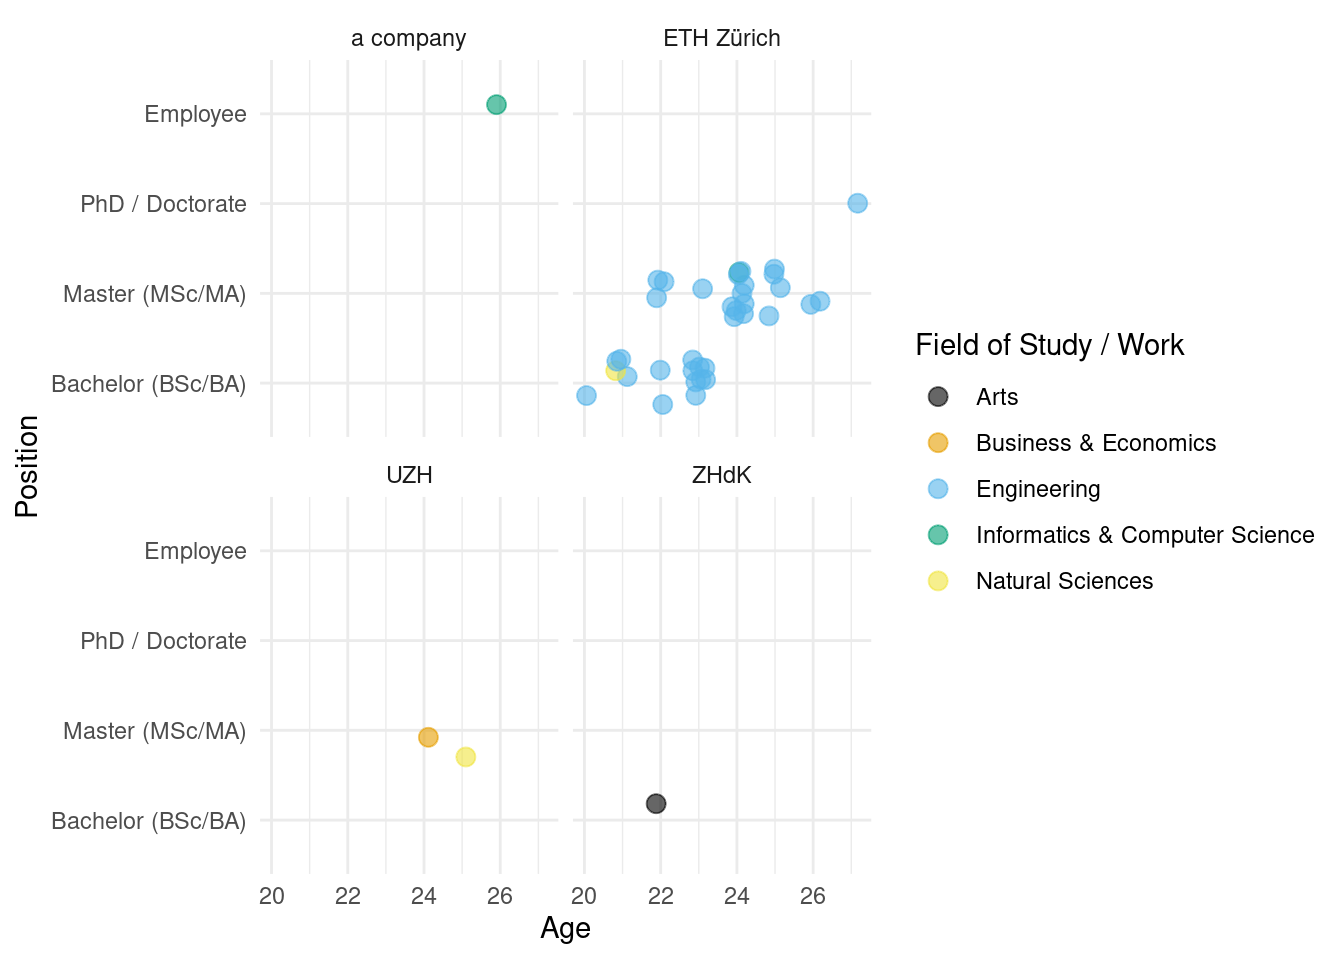
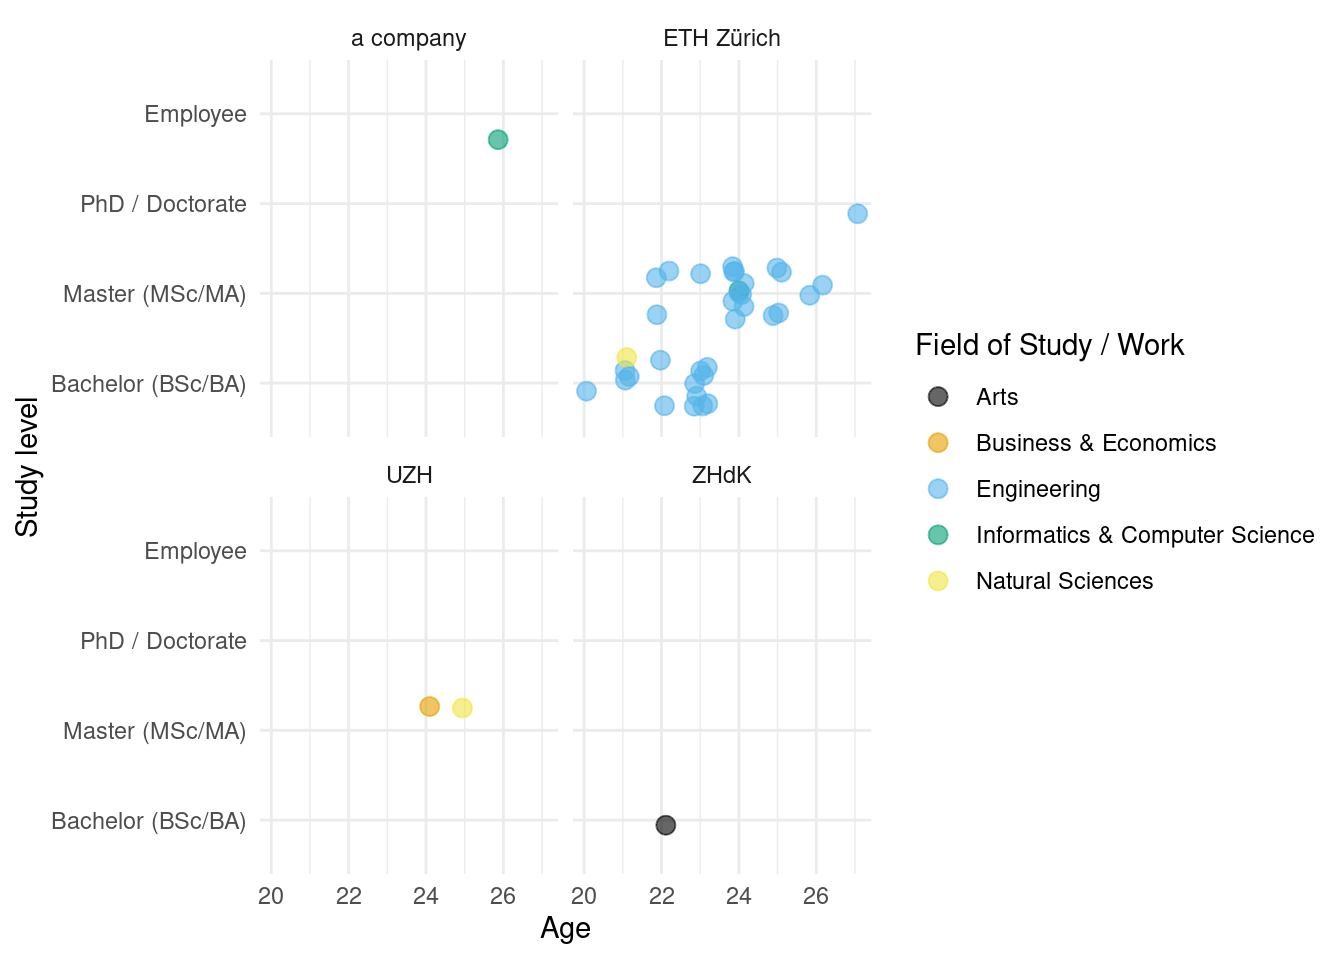
Added a few subchapters

diff --git a/docs/index.html b/docs/index.html
@@ -85,7 +85,12 @@ pre > code.sourceCode > span > a:first-child::before { text-decoration: underlin
   <ul>
   <li><a href="#introduction" id="toc-introduction" class="nav-link active" data-scroll-target="#introduction">Introduction</a></li>
   <li><a href="#methods" id="toc-methods" class="nav-link" data-scroll-target="#methods">Methods</a></li>
-  <li><a href="#results" id="toc-results" class="nav-link" data-scroll-target="#results">Results</a></li>
+  <li><a href="#results" id="toc-results" class="nav-link" data-scroll-target="#results">Results</a>
+  <ul class="collapse">
+  <li><a href="#respondents" id="toc-respondents" class="nav-link" data-scroll-target="#respondents">Respondents</a></li>
+  <li><a href="#single-use-cup-habits" id="toc-single-use-cup-habits" class="nav-link" data-scroll-target="#single-use-cup-habits">Single-use cup habits</a></li>
+  <li><a href="#opinions-on-a-ban-on-single-use-cups" id="toc-opinions-on-a-ban-on-single-use-cups" class="nav-link" data-scroll-target="#opinions-on-a-ban-on-single-use-cups">Opinions on a ban on single-use cups</a></li>
+  </ul></li>
   <li><a href="#conclusions" id="toc-conclusions" class="nav-link" data-scroll-target="#conclusions">Conclusions</a></li>
   </ul>
 </nav>
@@ -140,30 +145,15 @@ pre > code.sourceCode > span > a:first-child::before { text-decoration: underlin
 
 
 <div class="cell">
-<div class="cell-output cell-output-stderr">
-<pre><code>── Attaching core tidyverse packages ──────────────────────── tidyverse 2.0.0 ──
-✔ dplyr     1.1.4     ✔ readr     2.1.5
-✔ forcats   1.0.0     ✔ stringr   1.5.1
-✔ ggplot2   3.4.4     ✔ tibble    3.2.1
-✔ lubridate 1.9.3     ✔ tidyr     1.3.1
-✔ purrr     1.0.2     
-── Conflicts ────────────────────────────────────────── tidyverse_conflicts() ──
-✖ dplyr::filter() masks stats::filter()
-✖ dplyr::lag()    masks stats::lag()
-ℹ Use the conflicted package (&lt;http://conflicted.r-lib.org/&gt;) to force all conflicts to become errors
-
-Attaching package: 'scales'
-
-
-The following object is masked from 'package:purrr':
-
-    discard
-
-
-The following object is masked from 'package:readr':
-
-    col_factor</code></pre>
-</div>
+<details class="code-fold">
+<summary>Code</summary>
+<div class="sourceCode cell-code" id="cb1"><pre class="sourceCode r code-with-copy"><code class="sourceCode r"><span id="cb1-1"><a href="#cb1-1" aria-hidden="true" tabindex="-1"></a><span class="fu">library</span>(tidyverse)</span>
+<span id="cb1-2"><a href="#cb1-2" aria-hidden="true" tabindex="-1"></a><span class="fu">library</span>(scales)</span>
+<span id="cb1-3"><a href="#cb1-3" aria-hidden="true" tabindex="-1"></a><span class="fu">library</span>(ggthemes)</span>
+<span id="cb1-4"><a href="#cb1-4" aria-hidden="true" tabindex="-1"></a><span class="fu">library</span>(ggExtra)</span>
+<span id="cb1-5"><a href="#cb1-5" aria-hidden="true" tabindex="-1"></a></span>
+<span id="cb1-6"><a href="#cb1-6" aria-hidden="true" tabindex="-1"></a>df <span class="ot">&lt;-</span> <span class="fu">read_rds</span>(here<span class="sc">::</span><span class="fu">here</span>(<span class="st">"data/processed/processed_data.rds"</span>))</span></code><button title="Copy to Clipboard" class="code-copy-button"><i class="bi"></i></button></pre></div>
+</details>
 </div>
 <section id="introduction" class="level1">
 <h1>Introduction</h1>
@@ -171,31 +161,40 @@ The following object is masked from 'package:readr':
 </section>
 <section id="methods" class="level1">
 <h1>Methods</h1>
-<p>Methods section describes in 3 to 5 sentences how the data was obtained.</p>
+<p>The data was obtained using a Google Forms survey. Over the span of nine days from 2024-05-21 to 2024-05-29, students were asked on campus or online to fill out the questionnaire. The answers were automatically gathered in Google Sheets and from there converted to csv and rds using /R/01-data_download.R .</p>
 </section>
 <section id="results" class="level1">
 <h1>Results</h1>
 <p>Figures and tables in Results section are interpreted with 2 to 3 sentences each.</p>
+<section id="respondents" class="level2">
+<h2 class="anchored" data-anchor-id="respondents">Respondents</h2>
+<p>In the first section, respondents were asked to state their age, study field and level, and their institution. In <a href="#fig-respondents-institution" class="quarto-xref">Figure&nbsp;1</a> (a), we can see that most answers came from people within Engineering at ETH, and that all respondents were in their 20s as seen in <a href="#fig-respondents-institution" class="quarto-xref">Figure&nbsp;1</a> (b).</p>
+<details class="code-fold">
+<summary>Code</summary>
 <div class="sourceCode cell-code" id="cb2"><pre class="sourceCode r code-with-copy"><code class="sourceCode r"><span id="cb2-1"><a href="#cb2-1" aria-hidden="true" tabindex="-1"></a><span class="fu">ggplot</span>(<span class="at">data =</span> df, </span>
 <span id="cb2-2"><a href="#cb2-2" aria-hidden="true" tabindex="-1"></a>       <span class="at">mapping =</span> <span class="fu">aes</span>(<span class="at">x =</span> <span class="fu">reorder</span>(institution, institution, length),</span>
 <span id="cb2-3"><a href="#cb2-3" aria-hidden="true" tabindex="-1"></a>                     <span class="at">fill =</span> field)) <span class="sc">+</span></span>
 <span id="cb2-4"><a href="#cb2-4" aria-hidden="true" tabindex="-1"></a>  <span class="fu">geom_bar</span>() <span class="sc">+</span></span>
 <span id="cb2-5"><a href="#cb2-5" aria-hidden="true" tabindex="-1"></a>  <span class="fu">coord_flip</span>() <span class="sc">+</span></span>
-<span id="cb2-6"><a href="#cb2-6" aria-hidden="true" tabindex="-1"></a>  <span class="fu">labs</span>(<span class="at">x =</span> <span class="st">"Institution"</span>,</span>
-<span id="cb2-7"><a href="#cb2-7" aria-hidden="true" tabindex="-1"></a>       <span class="at">y =</span> <span class="st">"Number of responses"</span>) <span class="sc">+</span></span>
-<span id="cb2-8"><a href="#cb2-8" aria-hidden="true" tabindex="-1"></a>  <span class="fu">theme_minimal</span>() <span class="sc">+</span></span>
-<span id="cb2-9"><a href="#cb2-9" aria-hidden="true" tabindex="-1"></a>  <span class="fu">scale_fill_colorblind</span>() <span class="sc">+</span></span>
-<span id="cb2-10"><a href="#cb2-10" aria-hidden="true" tabindex="-1"></a>  <span class="fu">theme</span>(<span class="at">legend.position =</span> <span class="st">"none"</span>)</span>
-<span id="cb2-11"><a href="#cb2-11" aria-hidden="true" tabindex="-1"></a></span>
-<span id="cb2-12"><a href="#cb2-12" aria-hidden="true" tabindex="-1"></a><span class="fu">ggplot</span>(<span class="at">data =</span> df,</span>
-<span id="cb2-13"><a href="#cb2-13" aria-hidden="true" tabindex="-1"></a>       <span class="at">mapping =</span> <span class="fu">aes</span>(<span class="at">x =</span> age,</span>
-<span id="cb2-14"><a href="#cb2-14" aria-hidden="true" tabindex="-1"></a>                     <span class="at">fill =</span> field)) <span class="sc">+</span></span>
-<span id="cb2-15"><a href="#cb2-15" aria-hidden="true" tabindex="-1"></a>  <span class="fu">geom_bar</span>() <span class="sc">+</span></span>
-<span id="cb2-16"><a href="#cb2-16" aria-hidden="true" tabindex="-1"></a>  <span class="fu">labs</span>(<span class="at">x =</span> <span class="st">"Age"</span>,</span>
-<span id="cb2-17"><a href="#cb2-17" aria-hidden="true" tabindex="-1"></a>       <span class="at">y =</span> <span class="st">"Number of responses"</span>,</span>
-<span id="cb2-18"><a href="#cb2-18" aria-hidden="true" tabindex="-1"></a>       <span class="at">fill =</span> <span class="st">"Field of Study / Work"</span>) <span class="sc">+</span></span>
-<span id="cb2-19"><a href="#cb2-19" aria-hidden="true" tabindex="-1"></a>  <span class="fu">theme_minimal</span>() <span class="sc">+</span></span>
-<span id="cb2-20"><a href="#cb2-20" aria-hidden="true" tabindex="-1"></a>  <span class="fu">scale_fill_colorblind</span>()</span></code><button title="Copy to Clipboard" class="code-copy-button"><i class="bi"></i></button></pre></div>
+<span id="cb2-6"><a href="#cb2-6" aria-hidden="true" tabindex="-1"></a>  <span class="fu">scale_y_continuous</span>(<span class="at">breaks =</span> <span class="fu">seq</span>(<span class="at">from =</span> <span class="dv">0</span>, <span class="at">to =</span> <span class="dv">100</span>, <span class="at">by =</span> <span class="dv">2</span>)) <span class="sc">+</span></span>
+<span id="cb2-7"><a href="#cb2-7" aria-hidden="true" tabindex="-1"></a>  <span class="fu">labs</span>(<span class="at">x =</span> <span class="st">"Institution"</span>,</span>
+<span id="cb2-8"><a href="#cb2-8" aria-hidden="true" tabindex="-1"></a>       <span class="at">y =</span> <span class="st">"Number of responses"</span>) <span class="sc">+</span></span>
+<span id="cb2-9"><a href="#cb2-9" aria-hidden="true" tabindex="-1"></a>  <span class="fu">theme_minimal</span>() <span class="sc">+</span></span>
+<span id="cb2-10"><a href="#cb2-10" aria-hidden="true" tabindex="-1"></a>  <span class="fu">scale_fill_colorblind</span>() <span class="sc">+</span></span>
+<span id="cb2-11"><a href="#cb2-11" aria-hidden="true" tabindex="-1"></a>  <span class="fu">theme</span>(<span class="at">legend.position =</span> <span class="st">"none"</span>)</span>
+<span id="cb2-12"><a href="#cb2-12" aria-hidden="true" tabindex="-1"></a></span>
+<span id="cb2-13"><a href="#cb2-13" aria-hidden="true" tabindex="-1"></a><span class="fu">ggplot</span>(<span class="at">data =</span> df) <span class="sc">+</span></span>
+<span id="cb2-14"><a href="#cb2-14" aria-hidden="true" tabindex="-1"></a>  <span class="fu">geom_bar</span>(<span class="at">mapping =</span> <span class="fu">aes</span>(<span class="at">x =</span> age,</span>
+<span id="cb2-15"><a href="#cb2-15" aria-hidden="true" tabindex="-1"></a>                     <span class="at">fill =</span> field)) <span class="sc">+</span></span>
+<span id="cb2-16"><a href="#cb2-16" aria-hidden="true" tabindex="-1"></a>  <span class="fu">scale_x_continuous</span>(<span class="at">breaks =</span> <span class="fu">seq</span>(<span class="at">from =</span> <span class="dv">0</span>, <span class="at">to =</span> <span class="dv">100</span>, <span class="at">by =</span> <span class="dv">1</span>)) <span class="sc">+</span></span>
+<span id="cb2-17"><a href="#cb2-17" aria-hidden="true" tabindex="-1"></a>  <span class="fu">scale_y_continuous</span>(<span class="at">breaks =</span> <span class="fu">seq</span>(<span class="at">from =</span> <span class="dv">0</span>, <span class="at">to =</span> <span class="dv">100</span>, <span class="at">by =</span> <span class="dv">1</span>)) <span class="sc">+</span></span>
+<span id="cb2-18"><a href="#cb2-18" aria-hidden="true" tabindex="-1"></a>  <span class="fu">labs</span>(<span class="at">x =</span> <span class="st">"Age"</span>,</span>
+<span id="cb2-19"><a href="#cb2-19" aria-hidden="true" tabindex="-1"></a>       <span class="at">y =</span> <span class="st">"Number of responses"</span>,</span>
+<span id="cb2-20"><a href="#cb2-20" aria-hidden="true" tabindex="-1"></a>       <span class="at">fill =</span> <span class="st">"Field of Study / Work"</span>) <span class="sc">+</span></span>
+<span id="cb2-21"><a href="#cb2-21" aria-hidden="true" tabindex="-1"></a>  <span class="fu">theme_minimal</span>() <span class="sc">+</span></span>
+<span id="cb2-22"><a href="#cb2-22" aria-hidden="true" tabindex="-1"></a>  <span class="fu">scale_fill_colorblind</span>() <span class="sc">+</span></span>
+<span id="cb2-23"><a href="#cb2-23" aria-hidden="true" tabindex="-1"></a>  <span class="fu">geom_boxplot</span>(<span class="at">mapping =</span> <span class="fu">aes</span>(<span class="at">x =</span> age), <span class="at">alpha =</span> <span class="fl">0.2</span>, <span class="at">position =</span> <span class="fu">position_nudge</span>(<span class="at">y=</span><span class="fl">3.5</span>), <span class="at">width =</span> <span class="dv">2</span>)</span></code><button title="Copy to Clipboard" class="code-copy-button"><i class="bi"></i></button></pre></div>
+</details>
 <div id="fig-respondents-institution" class="quarto-layout-panel">
 <figure class="quarto-float quarto-float-fig figure">
 <div aria-describedby="fig-respondents-institution-caption-0ceaefa1-69ba-4598-a22c-09a6ac19f8ca">
@@ -231,7 +230,10 @@ Figure&nbsp;1: Distribution of responses
 </figcaption>
 </figure>
 </div>
+<p>In <a href="#fig-respondents-detail" class="quarto-xref">Figure&nbsp;2</a>, the study level is added as well, showing us that most respondents are indeed studying Engineering at Bachelor’s or Master’s level at ETH Zürich, with very few outliers.</p>
 <div class="cell">
+<details class="code-fold">
+<summary>Code</summary>
 <div class="sourceCode cell-code" id="cb3"><pre class="sourceCode r code-with-copy"><code class="sourceCode r"><span id="cb3-1"><a href="#cb3-1" aria-hidden="true" tabindex="-1"></a>df <span class="ot">&lt;-</span> df <span class="sc">|&gt;</span> </span>
 <span id="cb3-2"><a href="#cb3-2" aria-hidden="true" tabindex="-1"></a>  <span class="fu">mutate</span>(<span class="at">position =</span> <span class="fu">factor</span>(position, <span class="at">levels =</span> <span class="fu">c</span>(<span class="st">"Bachelor (BSc/BA)"</span>, <span class="st">"Master (MSc/MA)"</span>, <span class="st">"PhD / Doctorate"</span>, <span class="st">"Employee"</span>)))</span>
 <span id="cb3-3"><a href="#cb3-3" aria-hidden="true" tabindex="-1"></a></span>
@@ -241,12 +243,13 @@ Figure&nbsp;1: Distribution of responses
 <span id="cb3-7"><a href="#cb3-7" aria-hidden="true" tabindex="-1"></a>                     <span class="at">color =</span> field)) <span class="sc">+</span></span>
 <span id="cb3-8"><a href="#cb3-8" aria-hidden="true" tabindex="-1"></a>  <span class="fu">geom_jitter</span>(<span class="at">size =</span> <span class="dv">3</span>, <span class="at">alpha =</span> <span class="fl">0.6</span>, <span class="at">width =</span> <span class="fl">0.3</span>, <span class="at">height =</span> <span class="fl">0.2</span>) <span class="sc">+</span></span>
 <span id="cb3-9"><a href="#cb3-9" aria-hidden="true" tabindex="-1"></a>  <span class="fu">coord_flip</span>() <span class="sc">+</span></span>
-<span id="cb3-10"><a href="#cb3-10" aria-hidden="true" tabindex="-1"></a>  <span class="fu">labs</span>(<span class="at">x =</span> <span class="st">"Position"</span>,</span>
+<span id="cb3-10"><a href="#cb3-10" aria-hidden="true" tabindex="-1"></a>  <span class="fu">labs</span>(<span class="at">x =</span> <span class="st">"Study level"</span>,</span>
 <span id="cb3-11"><a href="#cb3-11" aria-hidden="true" tabindex="-1"></a>       <span class="at">y =</span> <span class="st">"Age"</span>,</span>
 <span id="cb3-12"><a href="#cb3-12" aria-hidden="true" tabindex="-1"></a>       <span class="at">color =</span> <span class="st">"Field of Study / Work"</span>) <span class="sc">+</span></span>
 <span id="cb3-13"><a href="#cb3-13" aria-hidden="true" tabindex="-1"></a>  <span class="fu">facet_wrap</span>(<span class="sc">~</span>institution) <span class="sc">+</span></span>
 <span id="cb3-14"><a href="#cb3-14" aria-hidden="true" tabindex="-1"></a>  <span class="fu">theme_minimal</span>() <span class="sc">+</span></span>
 <span id="cb3-15"><a href="#cb3-15" aria-hidden="true" tabindex="-1"></a>  <span class="fu">scale_color_colorblind</span>()</span></code><button title="Copy to Clipboard" class="code-copy-button"><i class="bi"></i></button></pre></div>
+</details>
 <div class="cell-output-display">
 <div id="fig-respondents-detail" class="quarto-figure quarto-figure-center quarto-float anchored">
 <figure class="quarto-float quarto-float-fig figure">
@@ -260,6 +263,47 @@ Figure&nbsp;2: Position, Institution, Age and Field of Respondents
 </div>
 </div>
 </div>
+<p>In the next questions, the respondents were asked to rank 1) the general importance of waste reduction and 2) the general importance of recycling on a scale of 1 (not important at all) to 5 (very important). The answers are summarized in <a href="#fig-respondents-opinions" class="quarto-xref">Figure&nbsp;3</a>, where it can be seen that both are perceived as important by most, with waste reduction having a higher mean importance than recycling.</p>
+<div class="cell">
+<details class="code-fold">
+<summary>Code</summary>
+<div class="sourceCode cell-code" id="cb4"><pre class="sourceCode r code-with-copy"><code class="sourceCode r"><span id="cb4-1"><a href="#cb4-1" aria-hidden="true" tabindex="-1"></a><span class="fu">ggplot</span>(<span class="at">data =</span> df) <span class="sc">+</span></span>
+<span id="cb4-2"><a href="#cb4-2" aria-hidden="true" tabindex="-1"></a>  <span class="fu">geom_jitter</span>(<span class="at">mapping =</span> <span class="fu">aes</span>(<span class="at">x =</span> importance_waste_reduction,</span>
+<span id="cb4-3"><a href="#cb4-3" aria-hidden="true" tabindex="-1"></a>                     <span class="at">y =</span> importance_recycling,</span>
+<span id="cb4-4"><a href="#cb4-4" aria-hidden="true" tabindex="-1"></a>                     <span class="at">color =</span> field),</span>
+<span id="cb4-5"><a href="#cb4-5" aria-hidden="true" tabindex="-1"></a>              <span class="at">size =</span> <span class="dv">3</span>, <span class="at">alpha =</span> <span class="fl">0.6</span>, <span class="at">width =</span> <span class="fl">0.25</span>, <span class="at">height =</span> <span class="fl">0.25</span>) <span class="sc">+</span></span>
+<span id="cb4-6"><a href="#cb4-6" aria-hidden="true" tabindex="-1"></a>  <span class="fu">geom_boxplot</span>(<span class="at">mapping =</span> <span class="fu">aes</span>(<span class="at">x =</span> importance_waste_reduction),</span>
+<span id="cb4-7"><a href="#cb4-7" aria-hidden="true" tabindex="-1"></a>               <span class="at">alpha =</span> <span class="fl">0.2</span>, <span class="at">position =</span> <span class="fu">position_nudge</span>(<span class="at">y=</span><span class="fl">1.75</span>), <span class="at">width =</span> <span class="fl">0.75</span>) <span class="sc">+</span></span>
+<span id="cb4-8"><a href="#cb4-8" aria-hidden="true" tabindex="-1"></a>  <span class="fu">geom_boxplot</span>(<span class="at">mapping =</span> <span class="fu">aes</span>(<span class="at">y =</span> importance_recycling),</span>
+<span id="cb4-9"><a href="#cb4-9" aria-hidden="true" tabindex="-1"></a>               <span class="at">alpha =</span> <span class="fl">0.2</span>, <span class="at">position =</span> <span class="fu">position_nudge</span>(<span class="at">x=</span><span class="fl">1.75</span>), <span class="at">width =</span> <span class="fl">0.75</span>) <span class="sc">+</span></span>
+<span id="cb4-10"><a href="#cb4-10" aria-hidden="true" tabindex="-1"></a>  <span class="fu">labs</span>(<span class="at">x =</span> <span class="st">"General importance of waste reduction"</span>,</span>
+<span id="cb4-11"><a href="#cb4-11" aria-hidden="true" tabindex="-1"></a>       <span class="at">y =</span> <span class="st">"General importance of recycling"</span>,</span>
+<span id="cb4-12"><a href="#cb4-12" aria-hidden="true" tabindex="-1"></a>       <span class="at">color =</span> <span class="st">"Field of Study / Work"</span>) <span class="sc">+</span></span>
+<span id="cb4-13"><a href="#cb4-13" aria-hidden="true" tabindex="-1"></a>  <span class="fu">theme_minimal</span>() <span class="sc">+</span></span>
+<span id="cb4-14"><a href="#cb4-14" aria-hidden="true" tabindex="-1"></a>  <span class="fu">scale_color_colorblind</span>()</span></code><button title="Copy to Clipboard" class="code-copy-button"><i class="bi"></i></button></pre></div>
+</details>
+<div class="cell-output-display">
+<div id="fig-respondents-opinions" class="quarto-figure quarto-figure-center quarto-float anchored">
+<figure class="quarto-float quarto-float-fig figure">
+<div aria-describedby="fig-respondents-opinions-caption-0ceaefa1-69ba-4598-a22c-09a6ac19f8ca">
+<img src="index_files/figure-html/fig-respondents-opinions-1.png" class="img-fluid figure-img" width="672">
+</div>
+<figcaption class="quarto-float-caption-bottom quarto-float-caption quarto-float-fig" id="fig-respondents-opinions-caption-0ceaefa1-69ba-4598-a22c-09a6ac19f8ca">
+Figure&nbsp;3: Opinions on waste reduction and recycling in general
+</figcaption>
+</figure>
+</div>
+</div>
+</div>
+</section>
+<section id="single-use-cup-habits" class="level2">
+<h2 class="anchored" data-anchor-id="single-use-cup-habits">Single-use cup habits</h2>
+<p>Respondents were then asked about their usage of single use cups and how much a ban would affect them in daily life.</p>
+</section>
+<section id="opinions-on-a-ban-on-single-use-cups" class="level2">
+<h2 class="anchored" data-anchor-id="opinions-on-a-ban-on-single-use-cups">Opinions on a ban on single-use cups</h2>
+<p>Lastly, what do respondents think about a ban on single-use cups?</p>
+</section>
 </section>
 <section id="conclusions" class="level1">
 <h1>Conclusions</h1>
